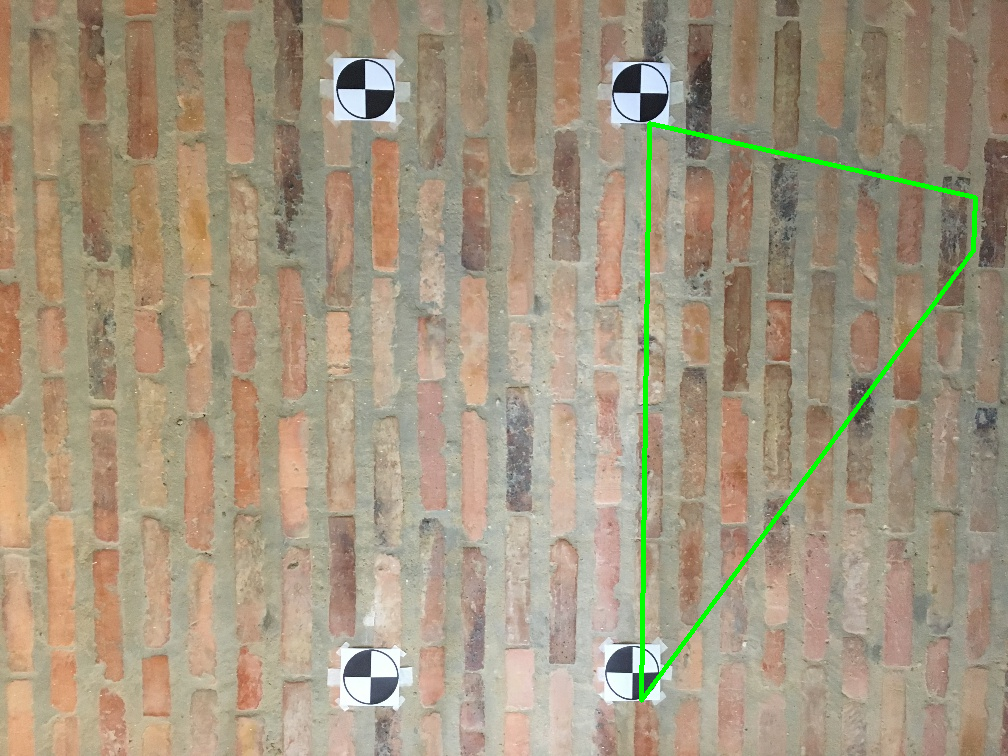
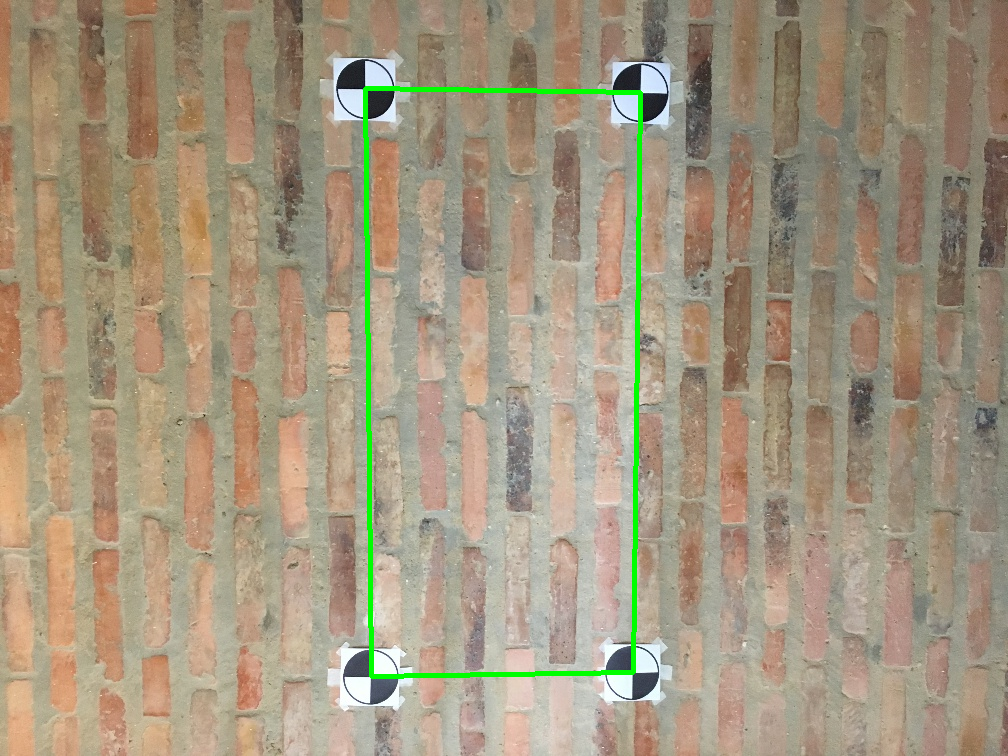
homography matrix calculation

diff --git a/PS3/ps3.py b/PS3/ps3.py
@@ -1,8 +1,7 @@
 """
 CS6476 Assignment 3 imports. Only Numpy and cv2 are allowed.
 """
-import cv2
-import numpy as np
+
 
 import cv2
 import numpy as np
@@ -180,9 +179,8 @@ def get_corners_list(image):
             in the order [top-left, bottom-left, top-right, bottom-right]
     """
     height, width = image.shape[:2]
-    corners = []
+    corners = [(0,0),(0,height),(width,0),(width,height)]
 
-    raise NotImplementedError
     return corners
 
 
@@ -247,7 +245,7 @@ def find_markers(image, template=None):
     for i in range(len(rot)):
         if rot[i] ==90:
             temp = ndimage.rotate(template, rot[i])
-        if rot[i] == 45 or rot[i] ==135:
+        elif rot[i] == 45 or rot[i] ==135:
             temp = ndimage.rotate(template, rot[i])
             rot_w,rot_h = temp.shape[:2]
             temp = temp[int((rot_w-w)/2):int((rot_w+w)/2),int((rot_h-h)/2):int((rot_h+h)/2)]
@@ -286,7 +284,7 @@ def find_markers(image, template=None):
     #remove the first 2 elements that they are already added
     points.remove(points[0]) 
     points.remove(points[0])
-    #sort them by maximum rows (y)
+    #sort the remaining (top-right, bottom-right) by min rows (y)
     points = sorted(points, key= lambda k:k[0].min()) # min in y
     out_list.append((int(points[0][1]+h/2),int(points[0][0]+w/2)))
     out_list.append((int(points[1][1]+h/2),int(points[1][0]+w/2)))
@@ -361,8 +359,61 @@ def find_four_point_transform(srcPoints, dstPoints):
     Returns:
         numpy.array: 3 by 3 homography matrix of floating point values
     """
-
-    raise NotImplementedError
+    #copied for opencv implmentation
+    """
+    /* Calculates coefficients of perspective transformation
+     * which maps (xi,yi) to (ui,vi), (i=1,2,3,4):
+     *
+     *      c00*xi + c01*yi + c02
+     * ui = ---------------------
+     *      c20*xi + c21*yi + c22
+     *
+     *      c10*xi + c11*yi + c12
+     * vi = ---------------------
+     *      c20*xi + c21*yi + c22
+     *
+     * Coefficients are calculated by solving linear system:
+     * / x0 y0  1  0  0  0 -x0*u0 -y0*u0 \ /c00\ /u0\
+     * | x1 y1  1  0  0  0 -x1*u1 -y1*u1 | |c01| |u1|
+     * | x2 y2  1  0  0  0 -x2*u2 -y2*u2 | |c02| |u2|
+     * | x3 y3  1  0  0  0 -x3*u3 -y3*u3 |.|c10|=|u3|,
+     * |  0  0  0 x0 y0  1 -x0*v0 -y0*v0 | |c11| |v0|
+     * |  0  0  0 x1 y1  1 -x1*v1 -y1*v1 | |c12| |v1|
+     * |  0  0  0 x2 y2  1 -x2*v2 -y2*v2 | |c20| |v2|
+     * \  0  0  0 x3 y3  1 -x3*v3 -y3*v3 / \c21/ \v3/
+     *
+     * where:
+     *   cij - matrix coefficients, c22 = 1
+     */
+    """
+    x0,y0 = srcPoints[0]
+    x1,y1 = srcPoints[1]
+    x2,y2 = srcPoints[2]
+    x3,y3 = srcPoints[3]
+    u0,v0 = dstPoints[0]
+    u1,v1 = dstPoints[1]
+    u2,v2 = dstPoints[2]
+    u3,v3 = dstPoints[3]
+    A = np.array([[x0, y0,1,0,0,0,-x0*u0, -y0*u0],
+                  [x1, y1,1,0,0,0,-x1*u1, -y1*u1],
+                  [x2, y2,1,0,0,0,-x2*u2, -y2*u2],
+                  [x3, y3,1,0,0,0,-x3*u3, -y3*u3],
+                  [0, 0,0,x0,y0,1,-x0*v0, -y0*v0],
+                  [0, 0,0,x1,y1,1,-x1*v1, -y1*v1],
+                  [0, 0,0,x2,y2,1,-x2*v2, -y2*v2],
+                  [0, 0,0,x3,y3,1,-x3*v3, -y3*v3], 
+                  ])
+    X = np.array([[u0],
+                  [u1],
+                  [u2],
+                  [u3],
+                  [v0],
+                  [v1],
+                  [v2],
+                  [v3]])
+    M = np.linalg.inv(A)@X
+    #append M by 1 --> c22 = 1, then reshape to 3x3
+    homography = np.vstack((M,np.array([[1]]))).reshape(3,3)
     return homography
 
 
